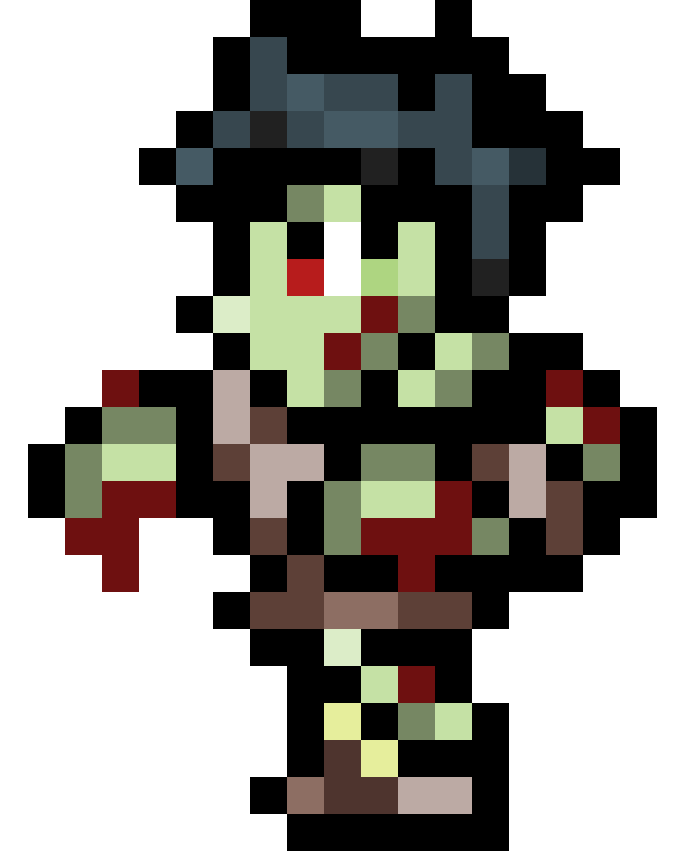
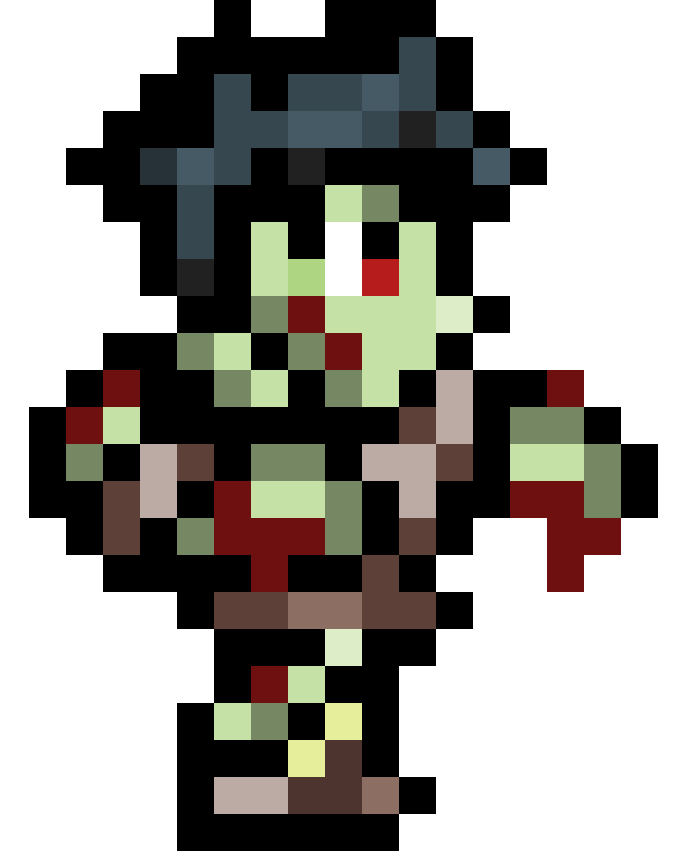
assets facing direction

diff --git a/Engine.js b/Engine.js
@@ -33,8 +33,62 @@ class GameEngine {
     });
     window.addEventListener("keyup", (e) => (this.keysPressed[e.key] = false));
 
+    // Bind Mouse Click Attack Listener
+    const gameWindow = document.getElementById("gameWindow");
+    gameWindow.addEventListener("mousedown", (e) => {
+      // Get exact coordinates of the mouse inside the game container
+      const rect = gameWindow.getBoundingClientRect();
+      const mouseX = e.clientX - rect.left;
+
+      // Determine click intent: did they click left or right of player's center?
+      const playerCenter = this.player.x + this.player.width / 2;
+      if (mouseX < playerCenter) {
+        this.player.facing = "left"; // instantly match intent
+      } else {
+        this.player.facing = "right";
+      }
+
+      this.executePlayerAttack();
+    });
+
     // Fire up the continuous engine loop process
     this.tick();
+  }
+
+  executePlayerAttack() {
+    console.log("Player swings!");
+
+    // Create a 40x40 square hitbox
+    const attackSize = 40;
+    let attackHitbox = {
+      x: 0,
+      y: this.player.y + (this.player.height - attackSize) / 2, // centered with torso
+      width: attackSize,
+      height: attackSize,
+    };
+
+    // Position the square in front of where the player is looking
+    if (this.player.facing === "right") {
+      attackHitbox.x = this.player.x + this.player.width; // just off right edge
+    } else {
+      attackHitbox.x = this.player.x - attackSize; // just off left edge
+    }
+
+    // Check if this attack box touches any zombies
+    for (let i = this.enemies.length - 1; i >= 0; i--) {
+      let enemy = this.enemies[i];
+      if (this.checkCollision(attackHitbox, enemy)) {
+        enemy.health--;
+        console.log(`Hit enemy! Enemy HP: ${enemy.health}`);
+
+        // If enemy HP drops to 0, vaporize them!
+        if (enemy.health <= 0) {
+          console.log("Enemy defeated!");
+          enemy.DOMElement.remove(); // clear out of DOM layout
+          this.enemies.splice(i, 1); // drop out of active arrays
+        }
+      }
+    }
   }
 
   /* Render the player's health */
@@ -85,7 +139,7 @@ class GameEngine {
       return;
     }
 
-    // 🌪️ Calculate clean knockback vector direction
+    // Calculate clean knockback vector direction
     const playerCenter = this.player.x + this.player.width / 2;
     const enemyCenter = enemy.x + enemy.width / 2;
     const pushDirection = playerCenter < enemyCenter ? -1 : 1;
@@ -110,7 +164,7 @@ class GameEngine {
     // Collision Check Loop
     this.enemies.forEach((enemy) => {
       if (this.checkCollision(this.player, enemy)) {
-        this.takeDamage(enemy); // 🌟 Pass the enemy causing the damage here!
+        this.takeDamage(enemy);
       }
     });
 

diff --git a/Player.js b/Player.js
@@ -12,6 +12,7 @@ class Player {
     this.isGrounded = false;
     this.grid = gridInstance; // currently broken
     this.knockbackTimer = 0;
+    this.facing = "right";
 
     this.DOMElement = document.getElementById("playerSprite");
   }
@@ -31,10 +32,13 @@ class Player {
       this.vx *= 0.92; // Gradually slow down horizontally in mid-air
     } else {
       // Horizontal movement logic based on key presses
-      if (keysPressed["d"] || keysPressed["ArrowRight"]) this.vx = this.speed;
-      else if (keysPressed["a"] || keysPressed["ArrowLeft"])
+      if (keysPressed["d"] || keysPressed["ArrowRight"]) {
+        this.vx = this.speed;
+        this.facing = "right";
+      } else if (keysPressed["a"] || keysPressed["ArrowLeft"]) {
         this.vx = -this.speed;
-      else this.vx = 0;
+        this.facing = "left";
+      } else this.vx = 0;
 
       // SOLID ENTITY CHECK
       if (this.vx !== 0) {
@@ -66,7 +70,7 @@ class Player {
       this.isGrounded = false;
     }
 
-    // 4. Ground Collision
+    // Ground Collision
     let feetY = this.y + this.height + this.vy;
     let leftFootX = this.x + 4; // Inward offset to stop edge sticking
     let rightFootX = this.x + this.width - 4;
@@ -90,5 +94,7 @@ class Player {
     // Push the updated mathematical states cleanly to CSS properties
     this.DOMElement.style.left = `${this.x}px`;
     this.DOMElement.style.top = `${this.y}px`;
+    this.DOMElement.classList.toggle("mirror-left", this.facing === "left");
+    this.DOMElement.classList.toggle("mirror-right", this.facing === "right");
   }
 }

diff --git a/Enemy.js b/Enemy.js
@@ -8,6 +8,8 @@ class Enemy {
     this.vy = 0;
     this.type = type; // "zombie", "skeleton", "creeper"
     this.grid = gridInstance;
+    this.health = 1;
+    this.facing = "left";
 
     this.DOMElement = document.createElement("div");
     this.DOMElement.className = `enemy ${this.type}`;
@@ -18,20 +20,21 @@ class Enemy {
     // Follow the player horizontal logic
     if (this.x < playerTarget.x) {
       this.x += this.vx;
+      this.facing = "right";
 
-      // 🌟 Solid Block Check: If stepping forward forces an overlap, stop moving!
+      // Solid Block Check: If stepping forward forces an overlap, stop moving!
       if (
         this.x + this.width > playerTarget.x &&
         this.x < playerTarget.x + playerTarget.width &&
         this.y + this.height > playerTarget.y &&
         this.y < playerTarget.y + playerTarget.height
       ) {
-        this.x = playerTarget.x - this.width; // Snap right against player's left side boundary
+        this.x = playerTarget.x - this.width; // Snap right against player left side boundary
       }
     } else if (this.x > playerTarget.x) {
       this.x -= this.vx;
-
-      // 🌟 Solid Block Check: Mirroring wall contact pushback on the opposite side
+      this.facing = "left";
+      // solid Block Check: Mirroring wall contact pushback on the opposite side
       if (
         this.x < playerTarget.x + playerTarget.width &&
         this.x + this.width > playerTarget.x &&
@@ -54,5 +57,7 @@ class Enemy {
   render() {
     this.DOMElement.style.left = `${this.x}px`;
     this.DOMElement.style.top = `${this.y}px`;
+    this.DOMElement.classList.toggle("mirror-left", this.facing === "left");
+    this.DOMElement.classList.toggle("mirror-right", this.facing === "right");
   }
 }

diff --git a/style.css b/style.css
@@ -89,3 +89,11 @@
 .heart.empty {
   background-image: url("Assets/Heart_Empty.png");
 }
+
+.mirror-left {
+  transform: scaleX(-1);
+}
+
+.mirror-right {
+  transform: scaleX(1);
+}